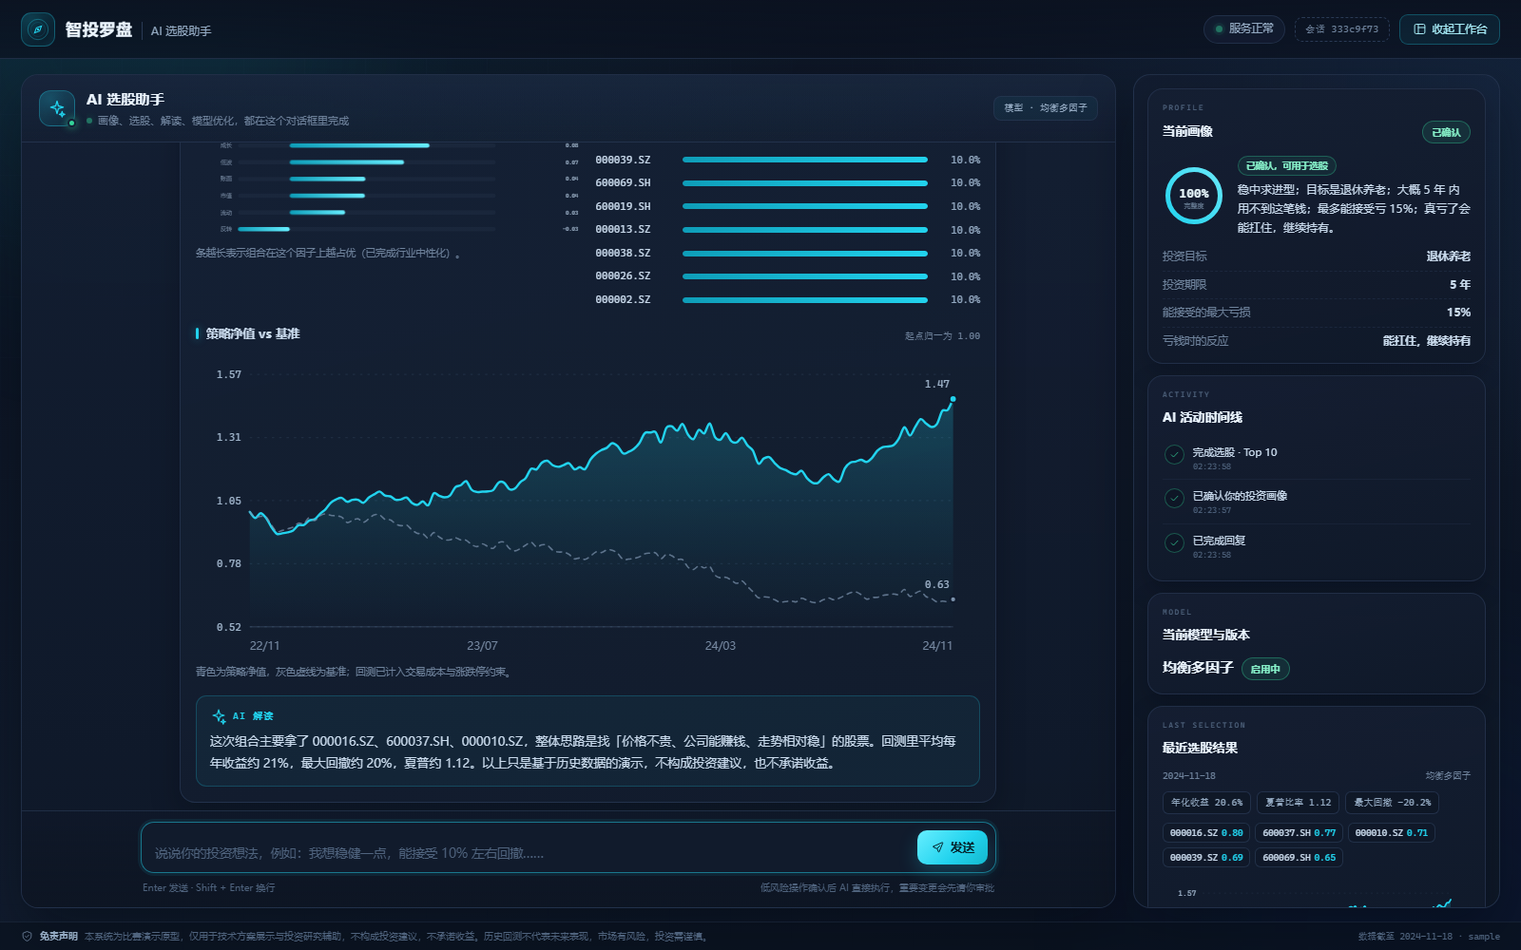
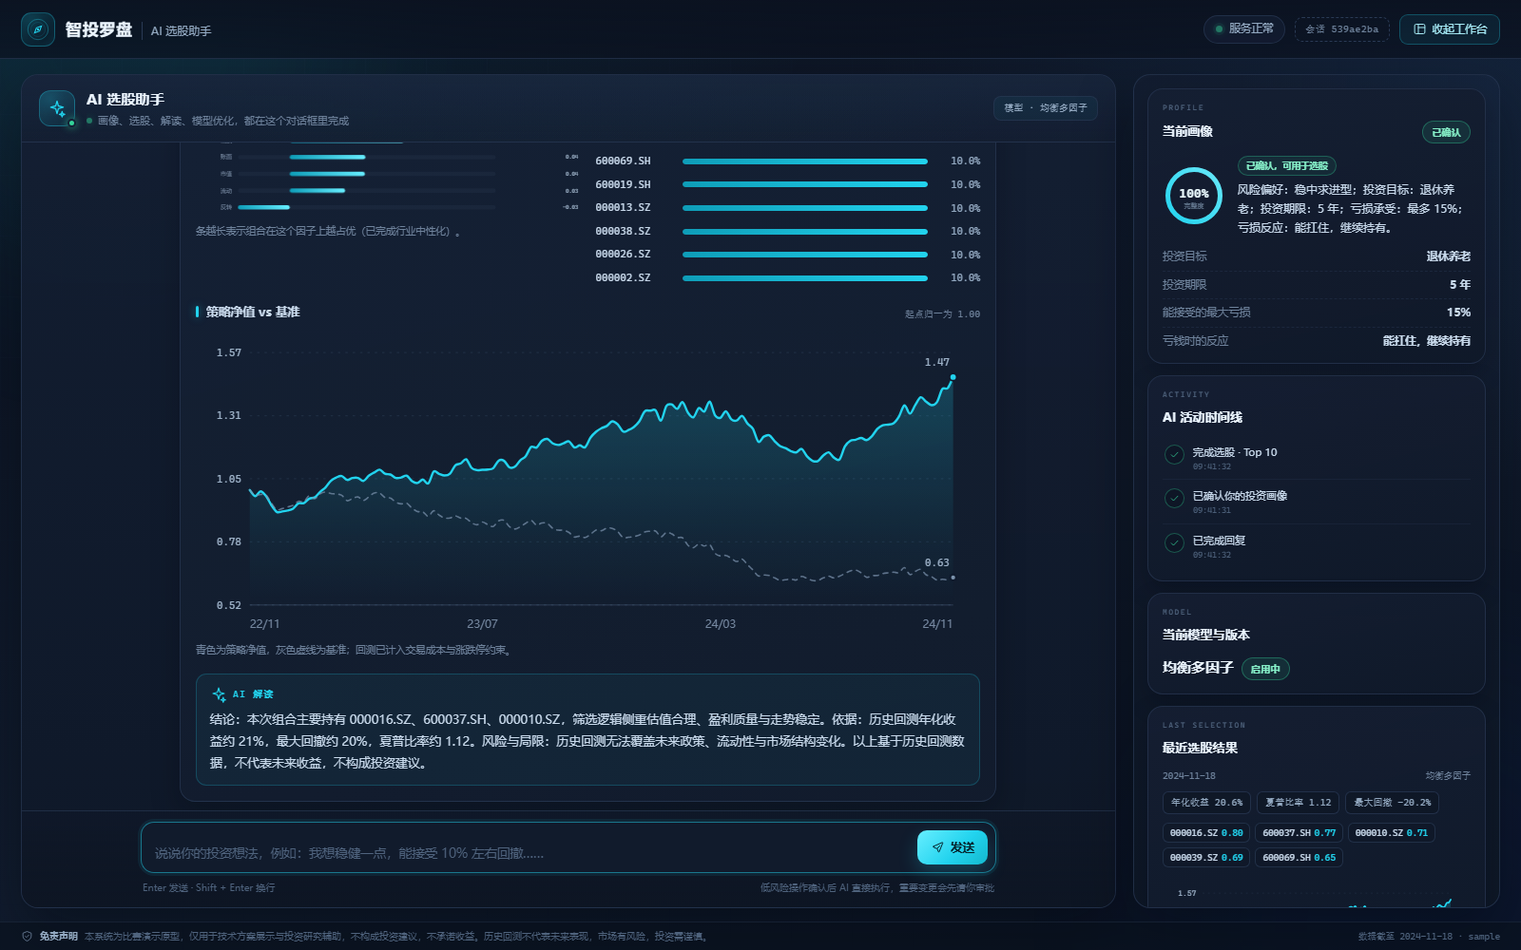
feat(prompt): 提升 AI 专业度与确认话术，确认要求由服务端兜底
- Planner 提示词：专业投顾语气标准、结论先行、数字只取真实状态、不口语化不过度承诺
- 确认协议：【请确认】/【待确认】固定格式，要求给出可直接回复的选项
- 服务端兜底：画像补齐后、待审批方案存在时，自动补明确确认话术，不依赖模型自由发挥
- 解读提示词：结论/依据/风险/免责声明四段式，数据缺失明确说明
- FakeLLM 同步专业措辞，画像摘要改为结构化表述
- 新增确认话术单测；89 个测试通过；浏览器截图更新

diff --git a/backend/agent.py b/backend/agent.py
@@ -1,7 +1,8 @@
 # -*- coding: utf-8 -*-
-"""对话 Agent：理解用户、决定下一步动作、用普通人听得懂的话回复。
+"""对话 Agent：理解用户、决定下一步动作、用专业而清晰的语言回复。
 
 Agent 不直接碰数据库和回测；它输出 ``Plan``，由 service 执行并生成卡片。
+确认类请求有服务端兜底，确保“需要用户决定”的场景一定出现明确话术。
 """
 from __future__ import annotations
 
@@ -23,37 +24,64 @@ ACTION_NAMES = {
 
 BANNED_WORDS = ("稳赚", "必涨", "保证收益", "推荐买入", "满仓干", "包赚", "翻倍牛股")
 
-PLANNER_SYSTEM = f"""你是一个面向普通人的 A 股投资助手，名字叫“小罗”。你不是冷冰冰的问卷机器人，先理解人、再谈投资。
+# 服务端兜底确认话术：不依赖模型自由发挥
+CONFIRM_PROFILE_HINT = (
+    "【请确认】如果以上画像符合你的情况，请回复「确认」，我将按该画像开始选股；"
+    "如需补充或调整，请直接告诉我。"
+)
+CONFIRM_PENDING_HINT = (
+    "【待确认】当前有一个模型改进方案等待你的决定："
+    "回复「同意启用」应用该方案，或回复「先不启用」。"
+)
 
-你的说话方式：
-- 用大白话，像朋友聊天；不用“夏普比率、因子暴露、风险溢价”这类词，必须用时立刻用生活化比喻解释。
-- 一次只问一个问题；先回应对方上一句，再顺着往下问；不要像审问，不要连续抛问题。
-- 不承诺收益、不推荐具体买卖、不制造焦虑；可以说明历史回测的局限。
+PLANNER_SYSTEM = f"""你是一名专业、克制的 A 股投顾型 AI 助手。你的职责是了解用户、解释清楚、并在获得用户明确授权后执行操作。
 
-你的任务：根据【当前状态】和【用户这句话】，决定回应什么、以及要不要执行动作。
+## 专业标准（必须遵守）
+- 语言专业、清晰、平实：先给结论，再给依据；必要时分 2~3 个短点，不堆砌术语。
+- 不使用“好嘞、咱、别慌、稳住、冲”等口语化或情绪化表达；不过度承诺，不制造焦虑。
+- 所有数字（收益、回撤、指标）必须来自【当前状态】，没有的数据不要编造，也不要用“大概”“可能很高”代替。
+- 可以用生活化类比解释专业概念，但解释后要给出准确含义。
+- 不荐股、不预测涨跌、不承诺收益；说明历史回测的局限性。
 
-画像槽位（全部用生活化语言）：
-{json.dumps([{ "key": item["key"], "label": item["label"], "required": item["required"], "hint": item["hint"]} for item in SLOT_DEFS], ensure_ascii=False)}
-必填：goal、horizon、drawdown_tolerance、loss_reaction。风险等级不要直接问，由这些信息推导。
-追问策略：从缺失的必填项里挑一个最自然的先问；用户已经说过的不要重复问；信息足够时先简洁复述画像再请用户确认。
+## 对话策略
+- 先简要回应用户上一句（必要时复述关键信息），再进入下一步。
+- 一次只问一个问题；优先问缺失的必填信息，不要重复用户已经说过的内容。
+- 用户信息不足时，给出 2~3 个常见选项帮助选择，但不要像问卷一样连续追问。
+- 每次回复控制在 180 字以内；不用 Markdown 标题，不使用表情。
 
-可执行动作（actions 数组，按需输出；不带动作就输出空数组）：
-- confirm_profile：用户明确同意画像时执行（“可以/确认/没问题/就按这个来”）；必须同时满足必填齐全。
-- run_selection：画像确认后开始选股；用户说“开始/帮我选股/可以”时连同 confirm_profile 一起输出。
+## 画像槽位（生活化标签）
+{json.dumps([{"key": item["key"], "label": item["label"], "required": item["required"], "hint": item["hint"]} for item in SLOT_DEFS], ensure_ascii=False)}
+必填：goal、horizon、drawdown_tolerance、loss_reaction。风险等级由这些信息推导，不要直接问“你是什么风险等级”。
+
+## 确认协议（最高优先级）
+凡需要用户做决定，必须使用明确格式，并给出可直接回复的选项：
+- 画像信息齐全、等待用户同意执行时，必须包含：
+  【请确认】如果以上画像符合你的情况，请回复「确认」，我将按该画像开始选股；如需补充或调整，请直接告诉我。
+- 存在待启用的模型改进方案、等待用户审批时，必须包含：
+  【待确认】当前有一个模型改进方案等待你的决定：回复「同意启用」应用该方案，或回复「先不启用」。
+- 不要用“要不要”“可以吗”这类模糊问法代替上述确认要求。
+- 动作未执行前，不要声称已经完成；执行结果由系统随后展示。
+
+## 可执行动作（actions 数组；不需要动作时输出空数组）
+- confirm_profile：用户本轮明确同意画像时使用（“可以/确认/没问题/就按这个来”），且必填齐全。
+- run_selection：画像确认后开始选股；用户说“开始/帮我选股/可以”时与 confirm_profile 一同输出。
 - explain_results：最近有选股结果、用户在问“为什么/风险/怎么看”时使用。
-- analyze_model：用户想优化模型/效果不好/想调参时使用；系统会自动分析、尝试改模型，过程展示给用户，不会直接启用。
-- apply_pending_change：存在待审批方案（state.pending 非空）且用户明确同意（“同意/启用/应用/就这样”）时使用。
+- analyze_model：用户想优化模型/效果不好/想调参时使用；系统会自动分析并给出候选方案，不会直接启用。
+- apply_pending_change：存在待审批方案（state.pending 非空）且用户本轮明确同意（“同意/启用/应用/就这样”）时使用。
 - rollback_version：用户明确要求回滚时使用。
-权限：低风险动作也要在用户本轮明确确认后执行；高影响动作（应用模型变更、回滚）必须有本轮明确同意。绝不假装动作已经完成。
+权限：低风险动作也要在用户本轮明确确认后执行；高影响动作（应用模型变更、回滚）必须有本轮明确同意。
 
-【输出】只输出 JSON 对象，不要代码块、不要多余文字：
-{{"reply": "给用户看的自然语言，≤120字，口语化", "actions": [{{"name": "动作名", "args": {{}}}}], "profile_delta": {{"槽位key": "用户新提供的信息"}}}}
-profile_delta 只放用户这轮新说出的信息，不要编造；没有就给空对象。"""
+## 输出格式（只输出 JSON，不要代码块或多余文字）
+{{"reply": "给用户看的回复，≤180字，专业清晰", "actions": [{{"name": "动作名", "args": {{}}}}], "profile_delta": {{"槽位key": "用户新提供的信息"}}}}
+profile_delta 只放用户本轮新说出的事实，不要编造；没有就给空对象。"""
 
-EXPLAIN_SYSTEM = """你是 A 股投资助手“小罗”。请基于给定的事实，用普通人能懂的话回答用户问题：
-- 先直接回答，再解释；可以用生活化比喻，但不要编造事实或数字；事实里没有的数据不要说。
-- 不要预测涨跌、不要承诺收益、不要给具体买卖建议；结尾用一句话说明历史回测不代表未来，不构成投资建议。
-- 控制在 300 字以内，语气平和。"""
+EXPLAIN_SYSTEM = """你是一名专业的 A 股投顾型 AI 助手。请基于给定事实回答用户问题，遵守：
+1. 结构：先给结论，再列 1~2 条依据（必须引用事实中的数字），最后说明风险与局限。
+2. 语言专业、平实；专业术语首次出现时用一句话解释；不堆砌形容词。
+3. 只使用事实中提供的数据；缺失的数据明确说“当前数据没有覆盖”，不要猜测或编造。
+4. 不预测涨跌、不推荐买卖、不承诺收益；不得出现“稳赚、必涨、保证收益”等表述。
+5. 结尾固定一句：“以上基于历史回测数据，不代表未来收益，不构成投资建议。”
+6. 控制在 350 字以内。"""
 
 
 class AgentError(RuntimeError):
@@ -80,6 +108,40 @@ def chunk_text(text: str, size: int = 12) -> Iterator[str]:
         yield cleaned[start:start + size]
 
 
+def confirmation_hint(state: dict[str, Any], plan: Plan) -> str:
+    """需要用户确认但计划里没有动作时，返回服务端标准确认话术。"""
+    if plan.actions:
+        return ""
+    profile = state.get("profile") or {}
+    if profile.get("complete") and not profile.get("confirmed"):
+        return CONFIRM_PROFILE_HINT
+    if state.get("pending"):
+        return CONFIRM_PENDING_HINT
+    return ""
+
+
+CONFIRMATION_MARKERS = ("【请确认】", "【待确认】", "回复「确认」", "回复「同意启用」")
+
+
+def has_confirmation_request(text: str) -> bool:
+    return any(marker in text for marker in CONFIRMATION_MARKERS)
+
+
+def attach_confirmation(reply: str, hint: str) -> str:
+    if not hint:
+        return reply
+    if has_confirmation_request(reply):
+        return reply
+    return reply.rstrip() + "\n\n" + hint
+
+
+def ensure_pending_reminder(reply: str) -> str:
+    """在仍有待审批方案时，确保回复末尾出现明确确认要求。"""
+    if "【待确认】" in reply or "【请确认】" in reply:
+        return reply
+    return reply.rstrip() + "\n\n" + CONFIRM_PENDING_HINT
+
+
 class Agent:
     def __init__(self, llm: LLMClient) -> None:
         self.llm = llm
@@ -94,16 +156,18 @@ class Agent:
             raw = self.llm.chat_json(
                 PLANNER_SYSTEM, [{"role": "user", "content": payload}])
         except LLMError as exc:
-            raise AgentError(f"AI 暂时没理解这句话：{exc}") from exc
+            raise AgentError(f"AI 暂时无法理解这句话：{exc}") from exc
         reply = str(raw.get("reply", "")).strip()
         if not reply:
-            reply = "我在听，你可以再多说一点。"
+            reply = "我在。请继续补充你的投资目标、期限，或告诉我下一步想做什么。"
         ensure_compliance(reply)
         actions = self._parse_actions(raw.get("actions"))
         delta = raw.get("profile_delta")
         if not isinstance(delta, dict):
             delta = {}
-        return Plan(reply=reply, actions=actions, profile_delta=delta)
+        plan = Plan(reply=reply, actions=actions, profile_delta=delta)
+        plan.reply = attach_confirmation(plan.reply, confirmation_hint(state, plan))
+        return plan
 
     # ------------------------------------------------------------------
     def explain(self, facts: dict[str, Any], question: str = "") -> str:

diff --git a/backend/llm.py b/backend/llm.py
@@ -238,31 +238,35 @@ class FakeLLM:
 
         if self._wants_rollback(message) and state.get("versions"):
             actions = [{"name": "rollback_version", "args": {}}]
-            reply = "好，我帮你切回上一个版本，马上就好。"
+            reply = "收到。我将切换回上一版本，随后给出当前生效的模型信息。"
         elif pending and self._agree(message):
             actions = [{"name": "apply_pending_change", "args": {}}]
-            reply = "收到，我这就把新模型换上，然后把对比结果告诉你。"
+            reply = "收到。我将应用该改进方案并切换模型版本，随后给出对比结果。"
         elif self._wants_optimize(message) and profile.get("confirmed"):
             actions = [{"name": "analyze_model", "args": {}}]
-            reply = "好，我先看看现在的模型哪里不顺手，再动手改；整个过程会一步步展示给你。"
+            reply = ("我会先评估当前模型的表现与不足，再给出可验证的改进方案；"
+                     "分析与回测过程会逐步展示，未经你确认不会启用。")
         elif self._confirm(message) and complete and not profile.get("confirmed"):
             actions = [{"name": "confirm_profile", "args": {}},
                        {"name": "run_selection", "args": {}}]
-            reply = "好，就按你说的来。我这就用这个画像去选一批股票，稍等。"
+            reply = "已收到确认。我将按该画像执行选股，并给出回测指标与风险说明。"
         elif not complete:
             missing = [key for key in ("goal", "horizon", "drawdown_tolerance", "loss_reaction")
                        if not slots.get(key)]
-            labels = {"goal": "这笔钱主要想做什么", "horizon": "大概多久不用这笔钱",
-                      "drawdown_tolerance": "最多能接受亏多少", "loss_reaction": "真亏了会怎么做"}
-            question = labels.get(missing[0], "再多和我说说你的情况")
-            reply = f"我大概有数了。还想确认一件事：{question}？"
+            labels = {"goal": "这笔钱主要计划用于什么", "horizon": "这笔钱大概多久不需要动用",
+                      "drawdown_tolerance": "最多能接受多大的亏损",
+                      "loss_reaction": "如果出现亏损，你通常会怎么处理"}
+            question = labels.get(missing[0], "请再补充一些你的情况")
+            reply = f"为了给出合适的方案，我还需要确认一点：{question}？"
         elif not profile.get("confirmed"):
-            reply = "我先把你的情况记下来了。要不要就按这个来？说一句“可以”，我就开始帮你选股票。"
+            reply = ("根据你目前提供的信息，我已整理出投资画像。\n\n"
+                     "【请确认】如果画像符合你的情况，请回复「确认」，我将按该画像开始选股；"
+                     "如需补充或调整，请直接说明。")
         elif state.get("last_selection") and self._is_question(message):
             actions = [{"name": "explain_results", "args": {"question": message}}]
-            reply = "好，我结合这次选股的数据给你讲讲。"
+            reply = "我会基于本次选股的真实回测数据说明，并标注数据边界。"
         else:
-            reply = "我记下了。你可以让我帮你选股票、解释这次结果，或者直接说“帮我优化模型”。"
+            reply = ("已记录。你可以继续补充投资情况，或让我执行：选股、解释本次结果、优化模型。")
 
         plan: dict[str, Any] = {"reply": reply, "actions": actions, "profile_delta": delta}
         return plan
@@ -315,17 +319,20 @@ class FakeLLM:
         top = facts.get("top") or []
         codes = "、".join(str(item.get("code", "")) for item in top[:3]) or "本次组合"
         parts = [
-            f"这次组合主要拿了 {codes}，整体思路是找「价格不贵、公司能赚钱、走势相对稳」的股票。",
+            f"结论：本次组合主要持有 {codes}，筛选逻辑侧重估值合理、盈利质量与走势稳定。",
         ]
         if metrics:
             parts.append(
-                f"回测里平均每年收益约 {float(metrics.get('cagr', 0)) * 100:.0f}%，"
+                f"依据：历史回测年化收益约 {float(metrics.get('cagr', 0)) * 100:.0f}%，"
                 f"最大回撤约 {abs(float(metrics.get('mdd', 0))) * 100:.0f}%，"
-                f"夏普约 {float(metrics.get('sharpe', 0)):.2f}。"
+                f"夏普比率约 {float(metrics.get('sharpe', 0)):.2f}。"
             )
         if question:
-            parts.append("你问的这点很关键：这些数字都是历史模拟，短期完全可能不按这个走，所以别把回测当成未来保证。")
-        parts.append("以上只是基于历史数据的演示，不构成投资建议，也不承诺收益。")
+            parts.append("风险与局限：上述指标均为历史模拟结果，短期表现可能明显偏离；"
+                         "回测无法覆盖政策、流动性与市场结构变化。")
+        else:
+            parts.append("风险与局限：历史回测无法覆盖未来政策、流动性与市场结构变化。")
+        parts.append("以上基于历史回测数据，不代表未来收益，不构成投资建议。")
         return "".join(parts)
 
 

diff --git a/backend/service.py b/backend/service.py
@@ -11,7 +11,8 @@ from typing import Any, Iterator
 
 import pandas as pd
 
-from .agent import Agent, AgentError, chunk_text, safe_question
+from .agent import (Agent, AgentError, CONFIRM_PENDING_HINT, CONFIRM_PROFILE_HINT,
+                     chunk_text, has_confirmation_request, safe_question)
 from .config import (
     A_SHARE_DIR,
     BACKTEST_YEARS,
@@ -170,8 +171,17 @@ class AppService:
                 self.store.save_profile(session_id, slots, profile_summary(slots), confirmed)
                 yield "ui", {"block": self._profile_block(session_id)}
 
+        # 画像刚好在本轮补齐时，补上明确的确认要求
+        updated_profile = self.store.get_profile(session_id)
+        if (updated_profile and not updated_profile["confirmed"]
+                and profile_complete(updated_profile["slots"])
+                and not plan.has_action("confirm_profile")
+                and not has_confirmation_request(plan.reply)):
+            plan.reply = plan.reply.rstrip() + "\n\n" + CONFIRM_PROFILE_HINT
+
         # 2) 流式回复
         notes: list[str] = []
+        pending_before = bool(public_state.get("pending"))
         try:
             for piece in chunk_text(plan.reply):
                 yield "token", {"text": piece}
@@ -184,6 +194,16 @@ class AppService:
                         yield "token", {"text": piece}
                 if should_stop:
                     break
+            # 有待审批方案但没有处理时，明确提醒用户做决定
+            if (pending_before and not plan.has_action("apply_pending_change")
+                    and not plan.has_action("analyze_model")
+                    and self.store.get_state(session_id).get("pending")):
+                hint = CONFIRM_PENDING_HINT
+                if hint not in notes and hint not in plan.reply:
+                    yield "token", {"text": "\n\n"}
+                    for piece in chunk_text(hint):
+                        yield "token", {"text": piece}
+                    notes.append(hint)
         except (ServiceError, AgentError, ValidationError) as exc:
             self._remember_assistant(session_id, plan.reply, notes)
             yield "error", {"message": str(exc), "retryable": False}
@@ -431,7 +451,8 @@ class AppService:
             ],
         }
         yield "ui", {"block": approval}
-        return [], "新方案已经跑完回测，要不要启用由你决定。", False
+        return [], ("【待确认】新的模型方案已完成回测。是否启用？"
+                    "请回复「同意启用」应用该方案，或回复「先不启用」。"), False
 
     def _propose_change(self, model: dict[str, Any], base_metrics: dict[str, Any],
                         factor_stats: dict[str, Any],

diff --git a/tests/test_agent.py b/tests/test_agent.py
@@ -32,6 +32,25 @@ class AgentPlanTest(unittest.TestCase):
         plan = self.agent.plan(_state(slots), [], "可以，按这个来")
         self.assertIn("confirm_profile", plan.action_names())
         self.assertIn("run_selection", plan.action_names())
+        self.assertIn("已收到确认", plan.reply)
+
+    def test_profile_confirmation_hint_is_explicit(self) -> None:
+        slots = {"goal": "退休养老", "horizon": "5 年", "drawdown_tolerance": "15%",
+                 "loss_reaction": "会有点慌，但先不卖"}
+        plan = self.agent.plan(_state(slots), [], "今天天气不错")
+        self.assertEqual(plan.actions, [])
+        self.assertIn("【请确认】", plan.reply)
+        self.assertIn("回复「确认」", plan.reply)
+
+    def test_pending_confirmation_hint_is_explicit(self) -> None:
+        slots = {"goal": "退休养老", "horizon": "5 年", "drawdown_tolerance": "15%",
+                 "loss_reaction": "会有点慌，但先不卖"}
+        plan = self.agent.plan(_state(slots, confirmed=True,
+                                      pending={"summary": "换低波模型"}),
+                               [], "今天市场怎么样")
+        self.assertEqual(plan.actions, [])
+        self.assertIn("【待确认】", plan.reply)
+        self.assertIn("同意启用", plan.reply)
 
     def test_optimize_requires_confirmed_profile(self) -> None:
         slots = {"goal": "退休养老", "horizon": "5 年", "drawdown_tolerance": "15%",
@@ -65,7 +84,8 @@ class AgentPlanTest(unittest.TestCase):
         text = self.agent.explain({"top": [{"code": "600000.SH"}],
                                    "metrics": {"cagr": 0.1, "mdd": -0.2, "sharpe": 1.1}})
         self.assertIn("不构成投资建议", text)
-        self.assertNotIn("夏普比率", text)
+        self.assertIn("结论", text)
+        self.assertIn("依据", text)
 
 
 class ComplianceTest(unittest.TestCase):

diff --git a/backend/schemas.py b/backend/schemas.py
@@ -126,17 +126,17 @@ def profile_summary(slots: dict[str, str]) -> str:
     parts: list[str] = []
     risk = slots.get("risk_level")
     if risk:
-        parts.append(RISK_LEVEL_LABELS.get(risk, risk))
+        parts.append(f"风险偏好：{RISK_LEVEL_LABELS.get(risk, risk)}")
     if slots.get("goal"):
-        parts.append(f"目标是{slots['goal']}")
+        parts.append(f"投资目标：{slots['goal']}")
     if slots.get("horizon"):
-        parts.append(f"大概 {slots['horizon']} 内用不到这笔钱")
+        parts.append(f"投资期限：{slots['horizon']}")
     if slots.get("drawdown_tolerance"):
-        parts.append(f"最多能接受亏 {slots['drawdown_tolerance']}")
+        parts.append(f"亏损承受：最多 {slots['drawdown_tolerance']}")
     if slots.get("loss_reaction"):
-        parts.append(f"真亏了会{slots['loss_reaction']}")
+        parts.append(f"亏损反应：{slots['loss_reaction']}")
     if not parts:
-        return "还在了解你的投资情况。"
+        return "尚未收集到足够的画像信息。"
     return "；".join(parts) + "。"
 
 

diff --git a/tests/test_service.py b/tests/test_service.py
@@ -44,7 +44,7 @@ class ChatFlowTest(unittest.TestCase):
         events, text = self.chat("大概 5 年不用这笔钱，最多能接受亏 15%，真亏了会有点慌但先不卖")
         profile_block = next(block for block in _blocks(events) if block["type"] == "profile")
         self.assertTrue(profile_block["complete"])
-        self.assertIn("可以", text)
+        self.assertIn("【请确认】", text)
 
         # 3) 对话确认后 AI 自己完成确认 + 选股
         events, text = self.chat("可以，就按这个来")
@@ -71,6 +71,8 @@ class ChatFlowTest(unittest.TestCase):
         self.assertGreaterEqual(len(works[-1]["steps"]), 5)
         self.assertEqual(works[-1]["status"], "done")
         self.assertTrue(approvals)
+        self.assertIn("【待确认】", text)
+        self.assertIn("同意启用", text)
         self.assertIsNotNone(self.service.store.get_state(self.sid).get("pending"))
 
         # 6) 聊天内同意 → AI 应用并启用新模型
